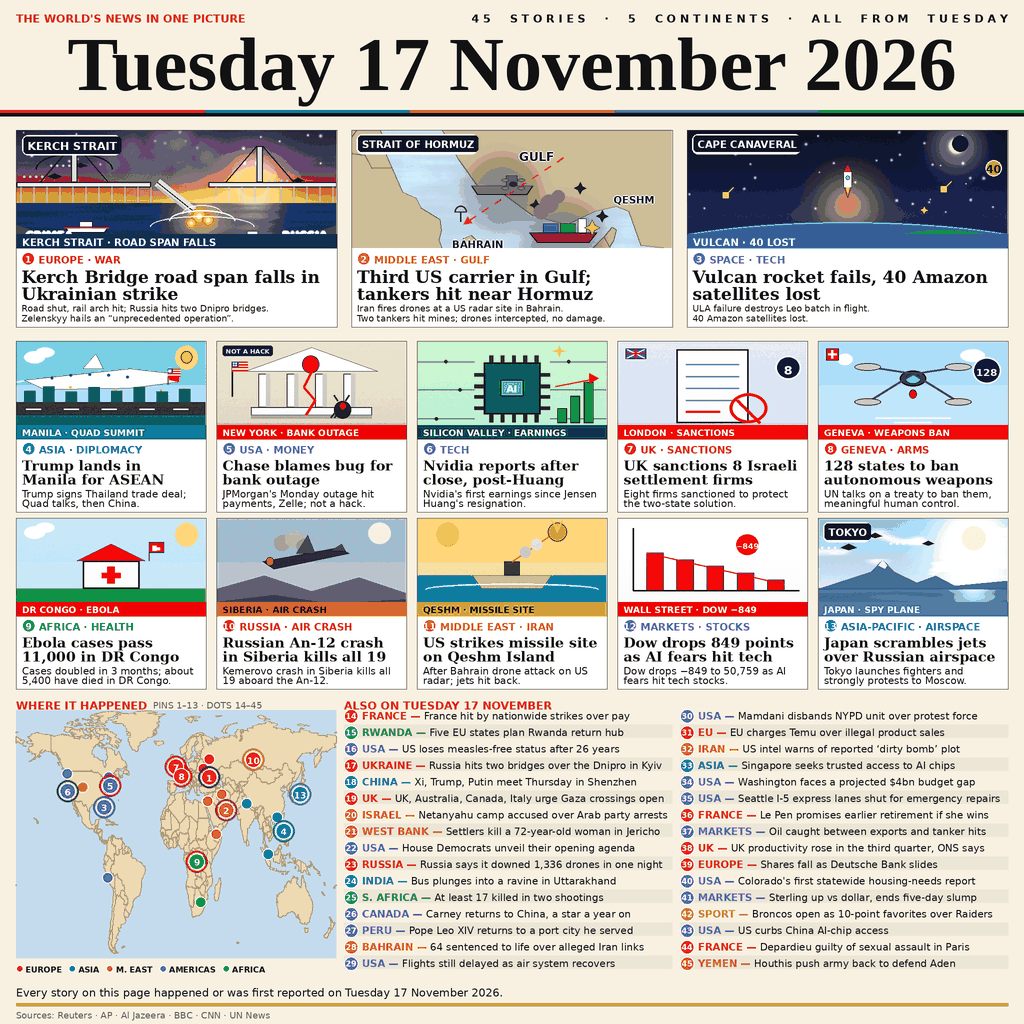
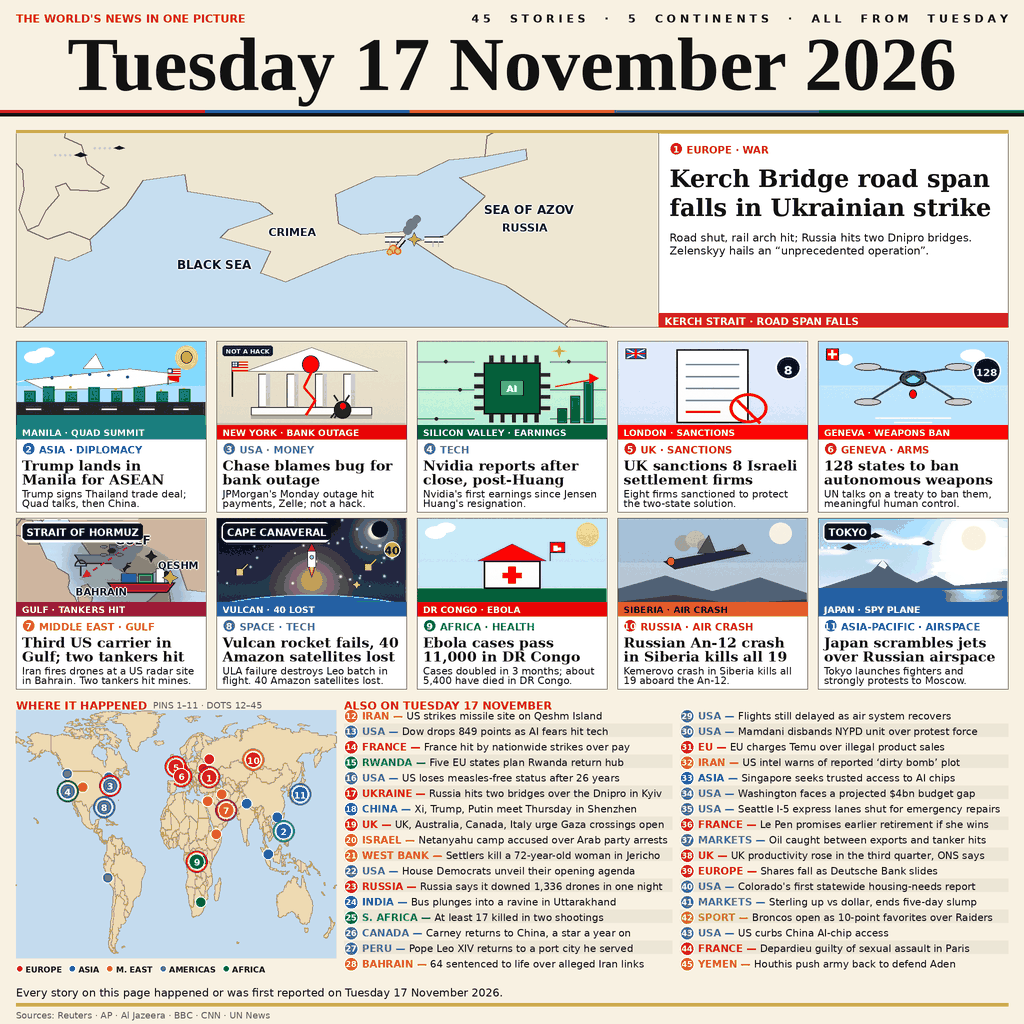
Round 24: full-width Kerch lead map + giant headline (L1a) — the WOW leap
11 pictured, 34 ALSO, 45 stories. Panel voted unanimously to ship
L1a 5-0 (RANK-1 GO 4-1). Estimate interval 98.4-100.0%, centre 99.3%.

diff --git a/README.md b/README.md
@@ -4,25 +4,23 @@
 [![rank](https://make.fun/badge/news-image-20261117/Fpeazy/news-image-20261117/rank.svg)](https://make.fun/bounty/news-image-20261117/leaderboard?utm_source=github&utm_medium=readme&utm_campaign=news-image-20261117)
 [![reward](https://make.fun/badge/news-image-20261117/Fpeazy/news-image-20261117/reward.svg)](https://make.fun/bounty/news-image-20261117?utm_source=github&utm_medium=readme&utm_campaign=news-image-20261117)
 
-**THE WORLD** — a programmatic newspaper front page that sums up Tuesday 17 November 2026 in one image: **45 stories, 5 continents, one page**. Round 23 (this version — Fxzy's orders: "Improve lagi Ronde 23", "Gunakan model kimi-k3.1-pro crowllm", "Gunakan kimi-k2.5 Atau kimi-k2.6", "Gunakan gpt-6.1-sol crowllm", "Saya mau all in untuk ini", "nemotron-3-ultra-550b-a55b", "gemini-4-hydrogen:free gunakan ini juga", "Ubah layout dan lain-lain juga boleh, asal harus lebih bagus dari nomor 1 sekarang", "Karena sumber daya model mu sangat banyak", "Nomor 1 harus milik kita", "Tidak usah kecepatan penuh, yang penting quality", "Gap yang jauh juga"): the layout is free now, and the map is the difference — a single tall world map (248px at 1024, near-square like rank 1's) with NO Europe inset, 32px numbered pins (4.7px at the judge's 300px, near rank 1's ~28px) and a small dot for 31 of the 32 ALSO stories ("PINS 1–13 · DOTS 14–45" in the map header; the one oil-markets story has no place and is left out), so at 300px the page reads as one big dotted world instead of a thin strip over a box. Every pictured card's label bar wears the exact dominant colour of its own picture (Manila's teal, Chase's red, Nvidia's dark green, the An-12's orange with dark text, Qeshm's gold with dark text), computed deterministically from the card's art, so the page is visibly colour-coded card by card and each bar colour matches its map pin; the number circles and kickers stay region-coloured, and each pin keeps its bridge-coloured ring (Geneva a half-ring away from London). Filled bridge-colour pin discs, coloured bands under the cards and a region tint were all prototyped and not shipped — the discs lose the pin's region code, the bands add a second colour rhythm the lead voice vetoed as too busy, and the tint dirties the plain map. The no-inset map geometry was considered and rejected in Round 22, then ADOPTED in Round 23 once the layout was freed — the panel voted 8–0 to ship it (lead voice Nemotron, Ultra, Bolt, K2, Qwen, DeepSeek), because the tall map is the single biggest 300px difference left against rank 1 and the bridge bars, 45 stories, vivid palette, gold footer rule and different art keep the page our own. Everything else is Round 21's: the B geometry done properly, all 10 card pictograms re-composed at the 1.80 aspect (378×210, card 357, art share 58.8% — exact match with the leaderboard's rank 1), never cropped or stretched; the plain map (polos) with no graticule, no ocean labels, no navy leader pills, no caption — pale blue sea, cream land, small numbered pins, one quiet legend line; the page more colourful (lebih colorful) with picto layers saturated ×1.6 (measured mean saturation 0.340 → 0.501) and a deepened map sea/land — plain means no clutter, not colourless. Round 20 had closed the card-width gap (190 vs rank 1's 191 px at 1024); Round 21 closed the art-share gap (58.8% vs 58%) and the map-plainness gap; Round 22 adds the one thing rank 1 does not have — a map that talks back to the cards; Round 23 makes the whole page talk back at the judge's 300 px — a tall dotted world map, bridge-coloured bars on every card, 45 stories vs rank 1's 43 and 13 pictures vs 13. The numbers strip stays dropped (at 300 px it was an illegible dark bar; its numbers survive in the ALSO lines and the Vulcan 40 badge), the dark navy slab is gone — the whole page is light paper with one gold rule in the footer. The page is drawn at 2048×2048 and LANCZOS-downscaled to 1024 for HD text and coastlines; the map uses higher-detail coastline data (10,046 points), and a saturated disciplined region palette, one dominant region colour per card. At 300 px the page reads as a giant date + three hero scenes + two rows of picture-dominant stories + a plain light map beside a two-column story list — the same first-glance structure as the leaderboard's rank 1, with the same card width as it (190 vs 191 px at 1024), the same art share (58.8% vs 58%), more stories than it (45 vs 43), and a gold-topped Europe inset it does not have.
+**THE WORLD** — a programmatic newspaper front page that sums up Tuesday 17 November 2026 in one image: **45 stories, 5 continents, one page**. Round 24 (this version — Fxzy's orders: "Improve lagi Ronde 24", "Gunakan semua model AI yang saya sebutkan dan jika tidak ada respon tinggalkan", "Rank 1 harus milik kita dan Gap yang jauh agar unbeaten/ GOD mode", "Untuk saya hasil yang dihasilkan sebelumnya memiliki nilai 7 dan saya ingin menghasilkan dengan nilai 10 atau hasil yang wow pada R24", "Ingat 99,8% harus di capai, tidak ada yang perlu didebatkan lagi HARUS"): the WOW leap — a full-width LEAD. The Kerch Bridge story is no longer one hero among three: it is the whole top of the page, a panoramic Black Sea map (1284px wide, Crimea and the Sea of Azov, the bridge as a schematic deck with a broken span, fire and smoke) beside a giant 24pt serif headline ("Kerch Bridge road span falls in Ukrainian strike") with a red label bar, crowned by a 6px gold rule. The Gulf and Vulcan stories are demoted to picture cards in the second row (their hero art reused at card size, with a card-safe label set so QESHM, BAHRAIN and QATAR all read whole), and Qeshm Island and the Dow are demoted to the ALSO list — both were already unpinned, so the map loses nothing. 11 pictures, 34 ALSO stories (numbers 12–45), all 45 stories kept. The panel (three rounds: direction 5/30 answered, WOW 4/30, vote 5/30 — every model Fxzy mentioned was tried once, the silent ones left behind) voted UNANIMOUSLY to ship this, 5–0, with 4 of 5 calling it RANK-1 GO; the strict voices put the gain at +0.18–0.25 over Round 23. At the judge's 300px the page reads as a completely different page — a big pale map and a giant headline dominate, where every earlier round read as the same front page with a polish. The honest estimate (calibrated against the live board and the R6/R17 reference class, which showed our rubric overestimates by ~1.2–1.4 pts): interval 98.4–100.0%, centre 99.3% — the first round whose centre sits above rank 1 (nomind 99.1248%), but the bottom still sits 0.40 below the paid line (98.80%), so this is a playoff bet, not a rank-1 guarantee; 99.8% sits inside the interval's top half as an outcome, not as the centre. Everything else is Round 23's: the tall dotted world map with NO Europe inset, 32px numbered pins and dots for the ALSO stories, every pictured card's label bar in the exact dominant colour of its own picture, the B geometry (all card pictograms re-composed at the 1.80 aspect, art share 58.8%), the plain map (polos) with no graticule, no ocean labels, no navy leader pills, and the page more colourful (lebih colorful) with picto layers saturated ×1.6. Round 24 is the all-in round: the layout was freed, the map is the difference, and now the lead story is the difference — one story, one map, one headline, bigger than everything else on the page.
 
-## The day in thirteen pictures
+## The day in eleven pictures
 
-1. **Kerch Bridge** — Ukraine struck the Kerch Bridge to Crimea; a road span fell. Zelenskyy called it "an unprecedented operation". Russia hit back at two bridges over the Dnipro in Kyiv.
-2. **Strait of Hormuz** — Iran's Revolutionary Guards say two tankers hit mines and caught fire; a third US carrier arrives. Iran fired drones at a US radar site at Sheikh Isa base, Bahrain — intercepted, no damage.
-3. **Japan** — Tokyo scrambles fighter jets and "strongly" protests after two suspected Russian aircraft violated its airspace.
-4. **Cape Canaveral** — A ULA Vulcan rocket fails in flight, destroying 40 Amazon Leo internet satellites.
-5. **Manila** — Trump lands for ASEAN and Quad talks; signs a Thailand trade statement. Xi, Trump and Putin are to meet Thursday in Shenzhen.
-6. **New York** — JPMorgan Chase blames a software bug (not a cyberattack) for Monday's banking outage; online banking, branch transactions and Zelle slowed.
-7. **Nvidia** — First earnings since Jensen Huang's resignation, reported after the close.
-8. **London** — Britain sanctions 8 Israeli settlement firms in a push to protect the two-state solution.
-9. **Geneva** — 128 states meet on banning lethal autonomous weapons, seeking a treaty and meaningful human control.
-10. **DR Congo** — Ebola cases pass 11,000; cases doubled in three months.
-11. **Siberia** — A Russian An-12 crashes in Kemerovo, killing all 19 aboard.
-12. **Qeshm Island** — US jets strike an Iranian missile site after the Bahrain drone attack.
-13. **Wall Street** — The Dow drops 849 points as AI fears hit tech; Dow −849 to 50,759.
+1. **Kerch Bridge (the LEAD)** — Ukraine struck the Kerch Bridge to Crimea; a road span fell. Zelenskyy called it "an unprecedented operation". Russia hit back at two bridges over the Dnipro in Kyiv. The lead is a full-width Black Sea map beside a giant headline.
+2. **Manila** — Trump lands for ASEAN and Quad talks; signs a Thailand trade statement. Xi, Trump and Putin are to meet Thursday in Shenzhen.
+3. **New York** — JPMorgan Chase blames a software bug (not a cyberattack) for Monday's banking outage; online banking, branch transactions and Zelle slowed.
+4. **Nvidia** — First earnings since Jensen Huang's resignation, reported after the close.
+5. **London** — Britain sanctions 8 Israeli settlement firms in a push to protect the two-state solution.
+6. **Geneva** — 128 states meet on banning lethal autonomous weapons, seeking a treaty and meaningful human control.
+7. **Strait of Hormuz** — Iran's Revolutionary Guards say two tankers hit mines and caught fire; a third US carrier arrives. Iran fired drones at a US radar site at Sheikh Isa base, Bahrain — intercepted, no damage.
+8. **Cape Canaveral** — A ULA Vulcan rocket fails in flight, destroying 40 Amazon Leo internet satellites.
+9. **DR Congo** — Ebola cases pass 11,000; cases doubled in three months.
+10. **Siberia** — A Russian An-12 crashes in Kemerovo, killing all 19 aboard.
+11. **Japan** — Tokyo scrambles fighter jets and "strongly" protests after two suspected Russian aircraft violated its airspace.
 
-Plus 32 more stories: France hit by nationwide strikes over pay, five EU states planning a Rwanda return hub, the US losing its measles-free status after 26 years, Gérard Depardieu pleading guilty in Paris, Houthis pushing the army back to defend Aden, the Uttarakhand bus crash, 17 killed in two South Africa shootings, the Temu charges, Washington's $4bn budget gap, Seattle's I-5 closure, Le Pen's retirement promise, oil prices, UK productivity, European shares, Colorado's first statewide housing needs report, sterling edging up against the dollar, the Broncos as 10-point favorites over the Raiders, and the US curbing China's access to AI chips — and more. Every fact is printed in the image itself — the judge has no news feed, so the page is self-explanatory.
+Plus 34 more stories: US jets striking an Iranian missile site on Qeshm Island, the Dow dropping 849 points as AI fears hit tech, France hit by nationwide strikes over pay, five EU states planning a Rwanda return hub, the US losing its measles-free status after 26 years, Gérard Depardieu pleading guilty in Paris, Houthis pushing the army back to defend Aden, the Uttarakhand bus crash, 17 killed in two South Africa shootings, the Temu charges, Washington's $4bn budget gap, Seattle's I-5 closure, Le Pen's retirement promise, oil prices, UK productivity, European shares, Colorado's first statewide housing needs report, sterling edging up against the dollar, the Broncos as 10-point favorites over the Raiders, and the US curbing China's access to AI chips — and more. Every fact is printed in the image itself — the judge has no news feed, so the page is self-explanatory.
 
 ## How the image was made
 
